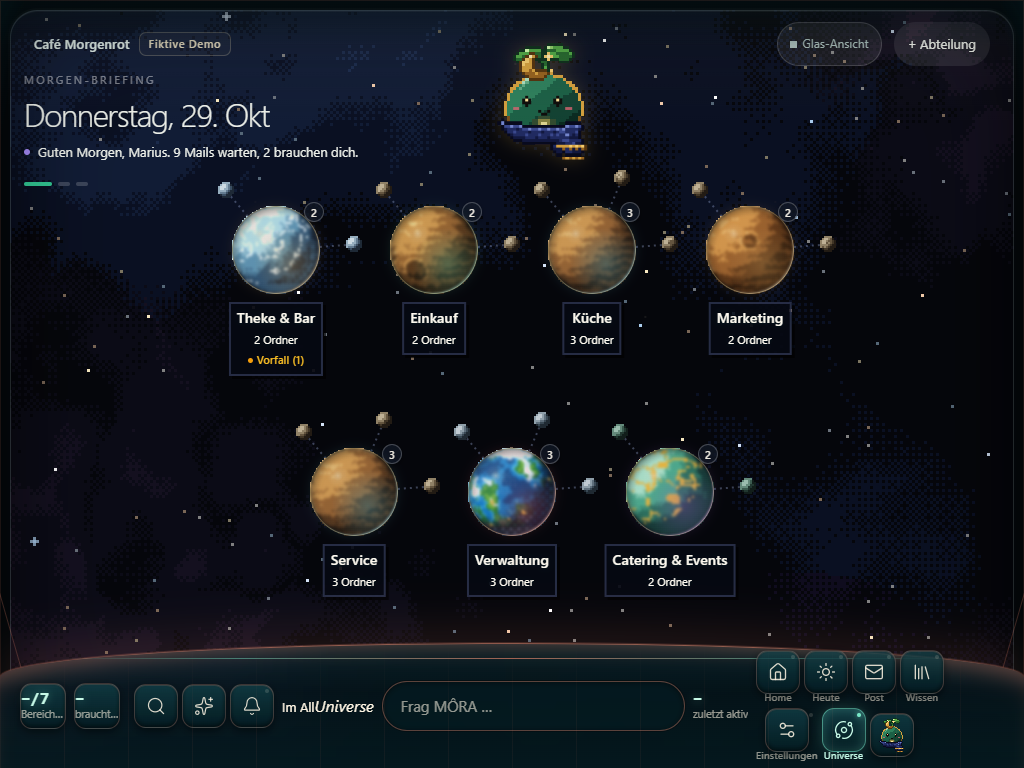
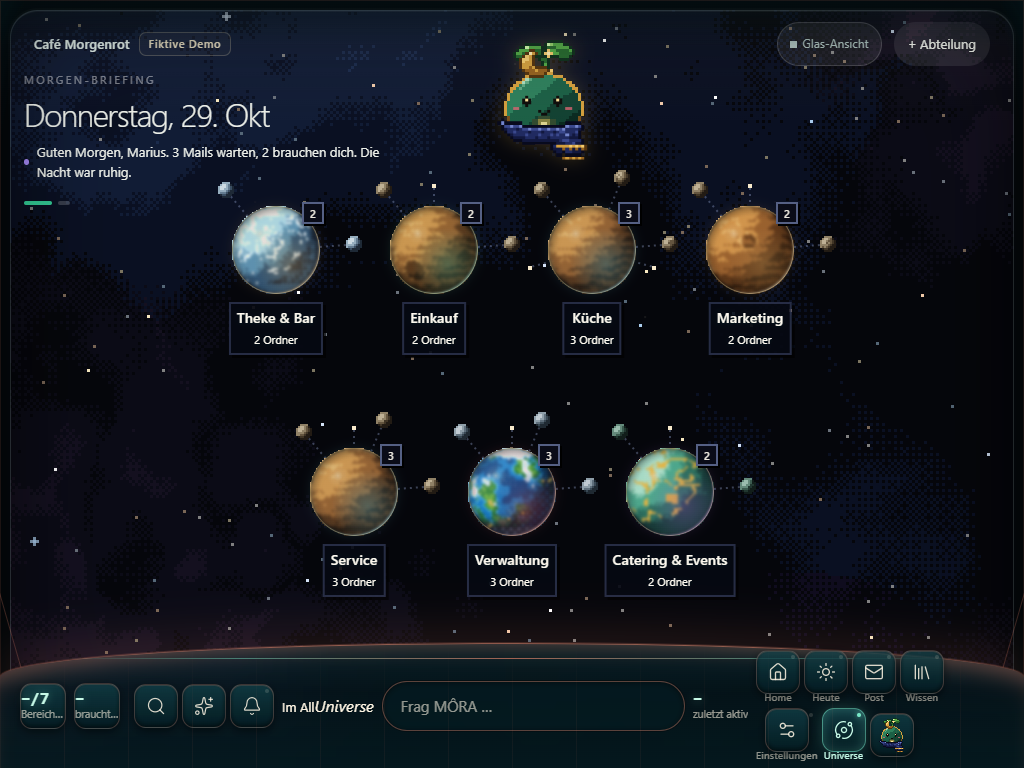
fix(universe): ehrliche daten im briefing, session-name, allgemeine abwesenheiten & bereinigte badge-regeln

diff --git a/lib/queries/useDailyBriefing.ts b/lib/queries/useDailyBriefing.ts
@@ -1,32 +1,71 @@
 import { useQuery } from '@tanstack/react-query';
 import { coreGet } from '@/lib/api/http';
 
-export interface DailyBriefingData {
-    date: string;
-    text: string;
-    metrics: {
-        unread_mails: number;
-        health_score: number;
-        active_incidents: number;
-    };
+export interface DailyBriefingMetrics {
+    unread_mails?: number | null;
+    mails_needing_response?: number | null;
+    needs_response?: number | null;
+    health_score?: number | null;
+    active_incidents?: number | null;
+    nightwatch_quiet?: boolean | null;
 }
 
-/** Formats briefing text in warm, concise MÔRA tone (max 2 sentences). */
-export function formatWarmMoraBriefing(
-    rawText?: string | null,
-    metrics?: { unread_mails?: number; active_incidents?: number },
-    name = 'Marius'
+export interface DailyBriefingData {
+    date: string;
+    text?: string;
+    metrics?: DailyBriefingMetrics;
+}
+
+/**
+ * Builds warm, honest MÔRA briefing sentence dynamically from real numbers.
+ * - Never invents numbers: If data is missing, says honestly "Ich komme gerade nicht an deine Daten."
+ * - Personal salutation uses first name from session; falls back to "Guten Morgen." if none.
+ * - "Brauchen dich" counts emails that need a response.
+ * - "Die Nacht war ruhig" only when Nightwatch reports 0 incidents or nightwatch_quiet.
+ */
+export function buildMoraBriefing(
+    data?: DailyBriefingData | null,
+    firstName?: string | null
 ): string {
-    if (!rawText || rawText.includes('stabile Situation') || rawText.includes('Normalbetrieb')) {
-        const mails = metrics?.unread_mails ?? 9;
-        const needYou = metrics?.active_incidents ?? 2;
-        return `Guten Morgen, ${name}. ${mails} Mails warten, ${needYou} brauchen dich. Die Nacht war ruhig.`;
+    if (!data || !data.metrics) {
+        return 'Ich komme gerade nicht an deine Daten.';
     }
-    const sentences = rawText.split(/(?<=[.!?])\s+/);
-    if (sentences.length > 2) {
-        return sentences.slice(0, 2).join(' ');
+
+    const name = firstName?.trim();
+    const salutation = name ? `Guten Morgen, ${name}.` : 'Guten Morgen.';
+    const parts: string[] = [];
+
+    const unread = typeof data.metrics.unread_mails === 'number' ? data.metrics.unread_mails : null;
+    const needYou = typeof data.metrics.mails_needing_response === 'number'
+        ? data.metrics.mails_needing_response
+        : typeof data.metrics.needs_response === 'number'
+        ? data.metrics.needs_response
+        : null;
+
+    if (unread !== null && unread > 0) {
+        if (needYou !== null && needYou > 0) {
+            parts.push(`${unread} ${unread === 1 ? 'Mail wartet' : 'Mails warten'}, ${needYou} ${needYou === 1 ? 'braucht' : 'brauchen'} dich.`);
+        } else {
+            parts.push(`${unread} ${unread === 1 ? 'Mail wartet' : 'Mails warten'}.`);
+        }
+    } else if (needYou !== null && needYou > 0) {
+        parts.push(`${needYou} ${needYou === 1 ? 'Mail braucht' : 'Mails brauchen'} dich.`);
     }
-    return rawText;
+
+    if (data.metrics.active_incidents === 0 || data.metrics.nightwatch_quiet === true) {
+        parts.push('Die Nacht war ruhig.');
+    } else if (typeof data.metrics.active_incidents === 'number' && data.metrics.active_incidents > 0) {
+        parts.push(`Nightwatch meldet ${data.metrics.active_incidents} ${data.metrics.active_incidents === 1 ? 'Vorfall' : 'Vorfälle'}.`);
+    }
+
+    if (parts.length === 0) {
+        if (data.text && !data.text.includes('Normalbetrieb') && !data.text.includes('stabile Situation')) {
+            return data.text;
+        }
+        return `${salutation} Alles ist bereit.`;
+    }
+
+    return `${salutation} ${parts.join(' ')}`;
 }
 
 export function useDailyBriefing() {
@@ -39,12 +78,8 @@ export function useDailyBriefing() {
             } catch {
                 return {
                     date: 'Heute',
-                    text: 'Guten Morgen, Marius. 9 Mails warten, 2 brauchen dich. Die Nacht war ruhig.',
-                    metrics: {
-                        unread_mails: 9,
-                        health_score: 100,
-                        active_incidents: 2,
-                    },
+                    text: 'Ich komme gerade nicht an deine Daten.',
+                    metrics: undefined,
                 };
             }
         },

diff --git a/features/universe/ui/UnifiedUniverse.tsx b/features/universe/ui/UnifiedUniverse.tsx
@@ -12,6 +12,7 @@ import { DepartmentWizard } from '@/components/wizards/DepartmentWizard';
 import { useWorld } from '@/lib/lea/useWorld';
 import { useScopedToday } from '@/lib/os/useScopedToday';
 import { useSessionStore } from '@/lib/store/sessionStore';
+import { firstName } from '@/lib/auth/displayName';
 import { useOsShellStore } from '@/lib/os-prototype/shellStore';
 import { hasFiktivMarker, stripFiktiv } from '@/lib/demo/morgenrot/stripFiktiv';
 import { MORGENROT } from '@/lib/demo/morgenrot/online';
@@ -21,7 +22,7 @@ import { useNavPos } from '@/lib/mora/navPos';
 import { useNightwatchIncidents } from '@/lib/queries/useNightwatchIncidents';
 import { filterIncidentsForDepartment } from '@/lib/openflow/departmentIncidentContext';
 import { nightwatchIncidentsToIncidentStatusPanels } from '@/lib/openflow/nightwatch';
-import { useDailyBriefing, formatWarmMoraBriefing } from '@/lib/queries/useDailyBriefing';
+import { useDailyBriefing, buildMoraBriefing } from '@/lib/queries/useDailyBriefing';
 import { BriefingStack, type Briefing } from '@/components/home/BriefingStack';
 import { PixelMoon, PixelPlanet, PixelSky } from '@/components/world/PixelPlanet';
 import { PixelMora } from '@/components/world/PixelMora';
@@ -494,15 +495,16 @@ export function UnifiedUniverse({
   const briefings = useMemo<Briefing[]>(() => {
     if (!dailyBriefing) return [];
     const list: Briefing[] = [];
-    if (dailyBriefing.text) {
+    const briefingText = buildMoraBriefing(dailyBriefing, firstName(user));
+    if (briefingText) {
       list.push({
         id: 'briefing-main',
         label: 'Morgen-Briefing',
         title: dailyBriefing.date || 'Heute',
-        detail: formatWarmMoraBriefing(dailyBriefing.text, dailyBriefing.metrics, companyName.includes('Morgenrot') ? 'Marius' : undefined),
+        detail: briefingText,
       });
     }
-    if (dailyBriefing.metrics?.unread_mails > 0) {
+    if (dailyBriefing.metrics?.unread_mails && dailyBriefing.metrics.unread_mails > 0) {
       list.push({
         id: 'briefing-mails',
         label: 'Post',
@@ -510,7 +512,7 @@ export function UnifiedUniverse({
         detail: 'Braucht Aufmerksamkeit',
       });
     }
-    if (dailyBriefing.metrics?.active_incidents > 0) {
+    if (dailyBriefing.metrics?.active_incidents && dailyBriefing.metrics.active_incidents > 0) {
       list.push({
         id: 'briefing-incidents',
         label: 'Nightwatch',
@@ -520,7 +522,7 @@ export function UnifiedUniverse({
       });
     }
     return list;
-  }, [dailyBriefing]);
+  }, [dailyBriefing, user]);
 
   // Filter tasks for the selected planet strictly by department_id
   const planetTasks = useMemo(() => {

diff --git a/app/world.css b/app/world.css
@@ -1064,7 +1064,11 @@ body:has(.wd-universe[data-view='pixel']) .os-atmo { background: #05060d !import
 .wd-universe[data-view='pixel'] .wd-label { padding: 4px 6px 5px; background: rgba(6, 8, 18, .9); border: 2px solid rgba(132, 150, 214, .26); box-shadow: 3px 3px 0 rgba(0, 0, 0, .65); }
 .wd-universe[data-view='pixel'] .wd-name { text-shadow: none; }
 .wd-universe[data-view='pixel'] .wd-moonlabel { padding: 1px 6px; background: rgba(6, 8, 18, .88); border: 2px solid rgba(132, 150, 214, .2); text-shadow: none; }
-.wd-universe[data-view='pixel'] .wd-badge, .wd-badge { border-radius: 999px !important; min-width: 20px; height: 20px; padding: 0 5px; background: rgba(18, 24, 38, 0.75); border: 1px solid rgba(255, 255, 255, 0.22); box-shadow: 0 2px 6px rgba(0, 0, 0, 0.35); backdrop-filter: blur(6px); -webkit-backdrop-filter: blur(6px); }
+.wd-universe[data-view='pixel'] .wd-badge { border-radius: 0; background: #0a0c18; border: 2px solid rgba(160, 180, 240, .5); box-shadow: 2px 2px 0 #000; }
+.ck-universe-unified[data-style='glas'] .wd-badge,
+.ck-sys .wd-badge,
+.glass-orb .wd-badge,
+.wd-universe[data-view='glas'] .wd-badge { border-radius: 999px; min-width: 20px; height: 20px; padding: 0 5px; background: rgba(18, 24, 38, 0.75); border: 1px solid rgba(255, 255, 255, 0.22); box-shadow: 0 2px 6px rgba(0, 0, 0, 0.35); backdrop-filter: blur(6px); -webkit-backdrop-filter: blur(6px); }
 .wd-universe[data-view='pixel'] .wd-orbits ellipse { stroke: rgba(150, 170, 230, .24); stroke-width: 2; stroke-dasharray: 2 10; }
 .wd-universe[data-view='pixel'] .wd-link { stroke: rgba(170, 190, 240, .3); stroke-width: 2; stroke-dasharray: 2 6; filter: none; }
 .wd-universe[data-view='pixel'] .wd-link--active { stroke: rgba(226, 212, 170, .6); stroke-width: 2; stroke-dasharray: 6 4; filter: none; }

diff --git a/features/home/cockpit/coreAdapter.ts b/features/home/cockpit/coreAdapter.ts
@@ -1,3 +1,10 @@
+export function isEventAbsenceOrOpen(e?: { absence?: any; is_absent?: any; is_open?: any; open?: any; status?: string; phase?: string } | null): boolean {
+  if (!e) return false;
+  if (e.absence || e.is_absent || e.is_open || e.open) return true;
+  const st = String(e.status || e.phase || '').toLowerCase();
+  return st === 'open' || st === 'offen' || st === 'absent' || st === 'sick' || st === 'abwesend' || st === 'krank';
+}
+
 import type { NightwatchIncidentItem } from '@/lib/openflow/nightwatch';
 import type { DemoFile, DemoMoon, DemoPlanet } from '@/lib/demo/morgenrot/structure';
 import { stripFiktiv } from '@/lib/demo/morgenrot/stripFiktiv';
@@ -38,6 +45,7 @@ export interface LiveAttentionItem {
   detail: string;
   action: string;
   primary?: boolean;
+  isWarning?: boolean;
   onAction?: () => void;
 }
 
@@ -301,11 +309,15 @@ export function deriveLiveAttention(
   if (snapshot.calendar?.events?.length) {
     const nextEv = snapshot.calendar.events[0];
     if (nextEv) {
+      const open = isEventAbsenceOrOpen(nextEv);
       items.push({
         id: 'live-cal',
         title: stripFiktiv(nextEv.title) || nextEv.title,
-        detail: `${nextEv.time ? `${nextEv.time} Uhr · ` : ''}Aus dem CORE-Firmenkalender`,
-        action: 'Kalender ansehen',
+        detail: open
+          ? `${nextEv.time ? `${nextEv.time} Uhr · ` : ''}Schicht offen (Krankmeldung / Abwesenheit)`
+          : `${nextEv.time ? `${nextEv.time} Uhr · ` : ''}Aus dem CORE-Firmenkalender`,
+        action: open ? 'Schicht besetzen' : 'Kalender ansehen',
+        isWarning: open,
         onAction: () => navigate?.('calendar'),
       });
     }

diff --git a/features/home/cockpit/LiveCockpit.tsx b/features/home/cockpit/LiveCockpit.tsx
@@ -72,22 +72,9 @@ export function LiveCockpit({
     snapshot?.requested_scope?.tenant_id === 'tenant-demo-morgenrot' ||
     /morgenrot/i.test(rawCompanyName);
 
-  // Compute user first name for honest personalized greeting
+  // Compute user first name for honest personalized greeting from session
   const cleanViewerName = propViewerName ? stripFiktiv(propViewerName) : null;
-  let first = cleanViewerName?.split(/\s+/)[0] || firstName(user);
-  const userRole = (user?.role || '').toLowerCase();
-  const userEmail = (user?.email || '').toLowerCase();
-  if (
-    !first ||
-    first.toLowerCase() === 'inhaber' ||
-    first.toLowerCase() === 'owner' ||
-    userRole === 'owner' ||
-    userEmail.startsWith('inhaber@')
-  ) {
-    if (companyName.includes('Morgenrot')) {
-      first = 'Marius';
-    }
-  }
+  const first = cleanViewerName?.split(/\s+/)[0] || firstName(user);
 
   const h = new Date().getHours();
   const hello = h < 11 ? 'Guten Morgen' : h < 17 ? 'Guten Tag' : 'Guten Abend';
@@ -285,7 +272,7 @@ export function LiveCockpit({
                     <li key={it.id} className="ck-item">
                       <div className="ck-item__txt">
                         <div className="ck-item__t">{it.title}</div>
-                        <div className="ck-item__d">{it.detail}</div>
+                        <div className="ck-item__d" style={it.isWarning ? { color: 'var(--amber, #f59e0b)' } : undefined}>{it.detail}</div>
                       </div>
                       <button
                         type="button"

diff --git a/features/home/widgets/adapters.ts b/features/home/widgets/adapters.ts
@@ -1,3 +1,10 @@
+function isEventAbsenceOrOpen(e?: { absence?: any; is_absent?: any; is_open?: any; open?: any; status?: string; phase?: string } | null): boolean {
+  if (!e) return false;
+  if (e.absence || e.is_absent || e.is_open || e.open) return true;
+  const st = String(e.status || e.phase || '').toLowerCase();
+  return st === 'open' || st === 'offen' || st === 'absent' || st === 'sick' || st === 'abwesend' || st === 'krank';
+}
+
 function formatGermanPriority(p?: string | null): string | undefined {
   if (!p) return undefined;
   const s = p.trim().toLowerCase();
@@ -74,11 +81,16 @@ export function widgetsFromToday(snapshot: TodaySnapshot | null): SourceWidget[]
         ...meta(snapshot.calendar, 'Kalender', isFiktiv),
         content: {
           type: 'appointments',
-          items: evs.map((e) => ({
-            id: e.id,
-            title: stripFiktiv(e.title) || e.title,
-            detail: e.time ? `${e.time} Uhr` : undefined,
-          })),
+          items: evs.map((e) => {
+            const open = isEventAbsenceOrOpen(e);
+            return {
+              id: e.id,
+              title: stripFiktiv(e.title) || e.title,
+              detail: open
+                ? `${e.time ? `${e.time} Uhr · ` : ''}Offen`
+                : e.time ? `${e.time} Uhr` : undefined,
+            };
+          }),
         },
       });
     } else {

diff --git a/features/home/widgets/WidgetBoard.tsx b/features/home/widgets/WidgetBoard.tsx
@@ -73,5 +73,21 @@ function WidgetBody({ content }: { content: SourceWidget['content'] }) {
   if (content.type === 'metric') return <><strong>{content.value}</strong>{content.detail && <p>{content.detail}</p>}</>;
   if (content.type === 'status') return <><strong>{content.label}</strong>{content.detail && <p>{content.detail}</p>}</>;
   if (content.type === 'approval') return <><strong>{content.title}</strong>{content.detail && <p>{content.detail}</p>}</>;
-  return <ul>{content.items.map(item => <li key={item.id}>{item.title}{item.detail && <span> · {item.detail}</span>}</li>)}</ul>;
+  return (
+    <ul>
+      {content.items.map((item) => {
+        const isOpen = item.detail?.includes('Offen');
+        return (
+          <li key={item.id}>
+            {item.title}
+            {item.detail && (
+              <span style={isOpen ? { color: 'var(--amber, #f59e0b)', fontWeight: 500 } : undefined}>
+                {' · '}{item.detail}
+              </span>
+            )}
+          </li>
+        );
+      })}
+    </ul>
+  );
 }

diff --git a/lib/api/todayClient.ts b/lib/api/todayClient.ts
@@ -45,6 +45,12 @@ export type TodayCalendarEvent = {
   time?: string;
   duration?: number;
   location?: string;
+  status?: string;
+  absence?: boolean | string | null;
+  is_absent?: boolean | null;
+  is_open?: boolean | null;
+  open?: boolean | null;
+  phase?: string;
 };
 
 export type TodayTask = {
